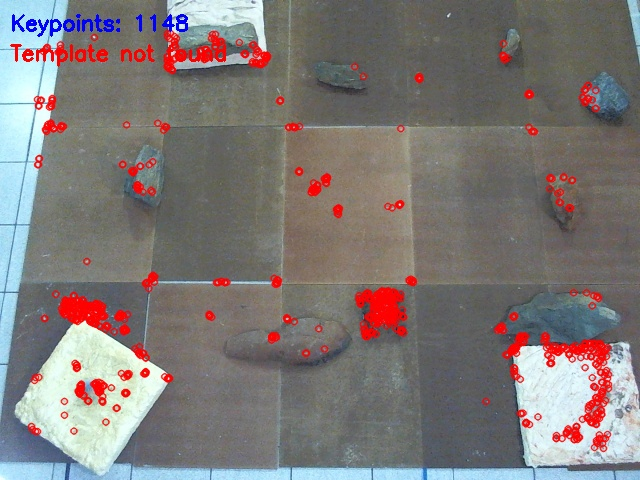
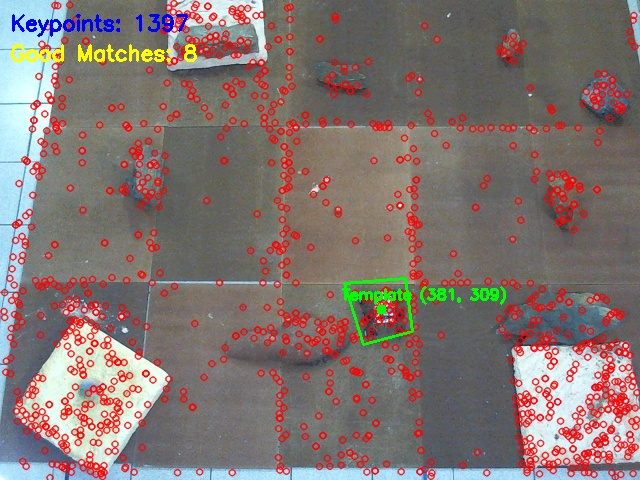
Found it with SIFT and CLAHE!

diff --git a/satellite_pc.py b/satellite_pc.py
@@ -6,30 +6,42 @@ import time
 
 app = Flask(__name__)
 
-# --- Template Preparation using ORB ---
+def preprocess_image(gray_img):
+    """Apply CLAHE (Contrast Limited Adaptive Histogram Equalization) to enhance contrast."""
+    clahe = cv2.createCLAHE(clipLimit=2.0, tileGridSize=(8,8))
+    return clahe.apply(gray_img)
 
-# Load the template image in grayscale.
-template = cv2.imread('mars_rover_template-nobg.png', cv2.IMREAD_GRAYSCALE)
+# --- Template Preparation using SIFT ---
+
+template_path = 'mars_rover_template.jpg'
+template = cv2.imread(template_path, cv2.IMREAD_GRAYSCALE)
 if template is None:
-    raise ValueError("Template image 'mars_rover_template.jpg' not found.")
+    raise ValueError(f"Template image '{template_path}' not found.")
+
+# Preprocess the template to boost contrast.
+template = preprocess_image(template)
 template_h, template_w = template.shape
 
-# Initialize ORB detector.
-orb = cv2.ORB_create(nfeatures=1500)
+# Initialize SIFT detector.
+sift = cv2.SIFT_create()
 
 # Compute keypoints and descriptors for the template.
-kp_template, des_template = orb.detectAndCompute(template, None)
+kp_template, des_template = sift.detectAndCompute(template, None)
 print("Template keypoints:", len(kp_template))
 
-# Create a BFMatcher object using Hamming distance.
-bf = cv2.BFMatcher(cv2.NORM_HAMMING, crossCheck=False)
+# Optionally, save an image with keypoints drawn for debugging.
+template_kp_img = cv2.drawKeypoints(template, kp_template, None, flags=cv2.DRAW_MATCHES_FLAGS_DRAW_RICH_KEYPOINTS)
+cv2.imwrite("template_keypoints.jpg", template_kp_img)
+
+# Create a BFMatcher object using L2 norm (suitable for SIFT).
+bf = cv2.BFMatcher(cv2.NORM_L2, crossCheck=False)
 
 # --- Image Capture Function ---
 
 def capture_image():
     """
-    Checks if 'capture.jpg' exists. If it does, loads and returns that image.
-    Otherwise, captures an image from the webcam (device index 1), saves it to 'capture.jpg',
+    Checks if 'capture.jpg' exists; if so, loads and returns that image.
+    Otherwise, captures an image from the webcam (device index 1), saves it as 'capture.jpg',
     and returns the captured image.
     """
     filename = "capture.jpg"
@@ -41,7 +53,7 @@ def capture_image():
         return image
     else:
         print("Capture file not found. Capturing new image from webcam.")
-        cap = cv2.VideoCapture(1)  # Adjust the index if needed.
+        cap = cv2.VideoCapture(1)  # Adjust index if needed.
         if not cap.isOpened():
             raise RuntimeError("Could not open camera on device index 1")
         time.sleep(0.5)  # Allow the camera to warm up.
@@ -49,52 +61,59 @@ def capture_image():
         cap.release()
         if not ret:
             raise RuntimeError("Failed to capture image from the camera")
-        # Save the captured image to file.
         cv2.imwrite(filename, frame)
         return frame
 
-# --- Template Matching using ORB ---
+# --- Template Matching using SIFT ---
 
-def find_template_orb(image, min_matches=10, ratio_thresh=0.75):
+def find_template_sift(image, min_matches=5, ratio_thresh=0.75):
     """
-    Detects the template in the given image using ORB feature matching.
+    Detects the template in the given image using SIFT feature matching.
     
     Args:
-        image: BGR image.
+        image: BGR image captured from the camera.
         min_matches: Minimum number of good matches required.
-        ratio_thresh: Lowe's ratio threshold.
+        ratio_thresh: Lowe's ratio threshold for filtering matches.
     
     Returns:
         center (tuple): (center_x, center_y) of the detected template region.
-        corners (np.array): Array of the 4 transformed corner points of the template.
-        good_matches (list): List of good matches.
-        If detection fails, returns (None, None, None).
+        corners (np.array): The four transformed corner points of the template in the scene.
+        good_matches (list): The list of good matches.
+        If detection fails, returns (None, None, good_matches).
     """
-    # Convert the scene image to grayscale.
+    # Convert the scene image to grayscale and preprocess it.
     gray = cv2.cvtColor(image, cv2.COLOR_BGR2GRAY)
+    gray = preprocess_image(gray)
     
-    # Detect keypoints and descriptors in the scene.
-    kp_scene, des_scene = orb.detectAndCompute(gray, None)
+    # Detect keypoints and compute descriptors in the scene.
+    kp_scene, des_scene = sift.detectAndCompute(gray, None)
     if des_scene is None:
+        print("No descriptors found in scene.")
         return None, None, None
-
-    # Perform KNN matching (k=2) and apply Lowe's ratio test.
+    
+    print("Scene keypoints:", len(kp_scene))
+    
+    # Perform KNN matching (k=2) and apply the ratio test.
     knn_matches = bf.knnMatch(des_template, des_scene, k=2)
     good_matches = []
     for m, n in knn_matches:
         if m.distance < ratio_thresh * n.distance:
             good_matches.append(m)
     
+    print("Good matches:", len(good_matches))
+    
     if len(good_matches) < min_matches:
+        print("Not enough good matches.")
         return None, None, good_matches
-
-    # Extract coordinates of matching keypoints.
+    
+    # Extract the coordinates of matching keypoints.
     pts_template = np.float32([kp_template[m.queryIdx].pt for m in good_matches]).reshape(-1, 1, 2)
     pts_scene = np.float32([kp_scene[m.trainIdx].pt for m in good_matches]).reshape(-1, 1, 2)
     
     # Compute homography using RANSAC.
     H, mask = cv2.findHomography(pts_template, pts_scene, cv2.RANSAC, 5.0)
     if H is None:
+        print("Homography computation failed.")
         return None, None, good_matches
     
     # Define the template's corner points.
@@ -102,7 +121,6 @@ def find_template_orb(image, min_matches=10, ratio_thresh=0.75):
                                    [template_w, 0],
                                    [template_w, template_h],
                                    [0, template_h]]).reshape(-1, 1, 2)
-    
     # Transform the template corners to the scene.
     scene_corners = cv2.perspectiveTransform(template_corners, H)
     
@@ -117,15 +135,15 @@ def find_template_orb(image, min_matches=10, ratio_thresh=0.75):
 @app.route('/find_rover', methods=['GET'])
 def find_rover_endpoint():
     """
-    Capture an image (or use the existing capture.jpg), detect the template using ORB,
-    and return its centroid coordinates as JSON.
+    Capture an image (or use the existing capture.jpg), use SIFT feature matching to detect the template,
+    and return its centroid and number of good matches as JSON.
     """
     try:
         image = capture_image()
     except Exception as e:
         return jsonify({"error": str(e)}), 500
     
-    center, corners, good_matches = find_template_orb(image)
+    center, corners, good_matches = find_template_sift(image)
     if center is None:
         return jsonify({"error": "Template not found"}), 404
     else:
@@ -134,26 +152,27 @@ def find_rover_endpoint():
 @app.route('/render', methods=['GET'])
 def render_endpoint():
     """
-    Capture an image (or use the existing capture.jpg), detect the template using ORB,
-    draw the ORB keypoints and good matches, annotate the image with the detected template region,
-    and save/return the annotated image.
+    Capture an image (or use the existing capture.jpg), use SIFT feature matching to detect the template,
+    draw the SIFT keypoints on the scene, overlay the detected template region and centroid,
+    and return the annotated image as a JPEG.
     """
     try:
         image = capture_image()
     except Exception as e:
         return jsonify({"error": str(e)}), 500
 
-    # Convert image to grayscale and compute ORB keypoints/descriptors for the scene.
+    # Convert the image to grayscale and preprocess.
     gray = cv2.cvtColor(image, cv2.COLOR_BGR2GRAY)
-    kp_scene, des_scene = orb.detectAndCompute(gray, None)
+    gray = preprocess_image(gray)
     
-    # Draw all keypoints on a copy of the image.
+    # Detect SIFT keypoints/descriptors in the scene.
+    kp_scene, des_scene = sift.detectAndCompute(gray, None)
     keypoints_img = cv2.drawKeypoints(image, kp_scene, None, color=(0, 0, 255), flags=0)
     
     # Run template matching.
-    center, corners, good_matches = find_template_orb(image)
+    center, corners, good_matches = find_template_sift(image)
     
-    # Annotate with keypoints count.
+    # Annotate with the total keypoints count.
     cv2.putText(keypoints_img, f"Keypoints: {len(kp_scene)}", (10, 30),
                 cv2.FONT_HERSHEY_SIMPLEX, 0.7, (255, 0, 0), 2)
     
@@ -166,14 +185,14 @@ def render_endpoint():
         # Annotate with text.
         cv2.putText(keypoints_img, f"Template ({center[0]}, {center[1]})", (center[0]-40, center[1]-10),
                     cv2.FONT_HERSHEY_SIMPLEX, 0.5, (0, 255, 0), 2)
-        # Annotate with the number of good matches.
+        # Annotate with number of good matches.
         cv2.putText(keypoints_img, f"Good Matches: {len(good_matches)}", (10, 60),
                     cv2.FONT_HERSHEY_SIMPLEX, 0.7, (0, 255, 255), 2)
     else:
         cv2.putText(keypoints_img, "Template not found", (10, 60),
                     cv2.FONT_HERSHEY_SIMPLEX, 0.7, (0, 0, 255), 2)
     
-    # Save the annotated image to disk (optional).
+    # Optionally, save the annotated image.
     cv2.imwrite("annotated_capture.jpg", keypoints_img)
     
     ret, jpeg = cv2.imencode('.jpg', keypoints_img)
